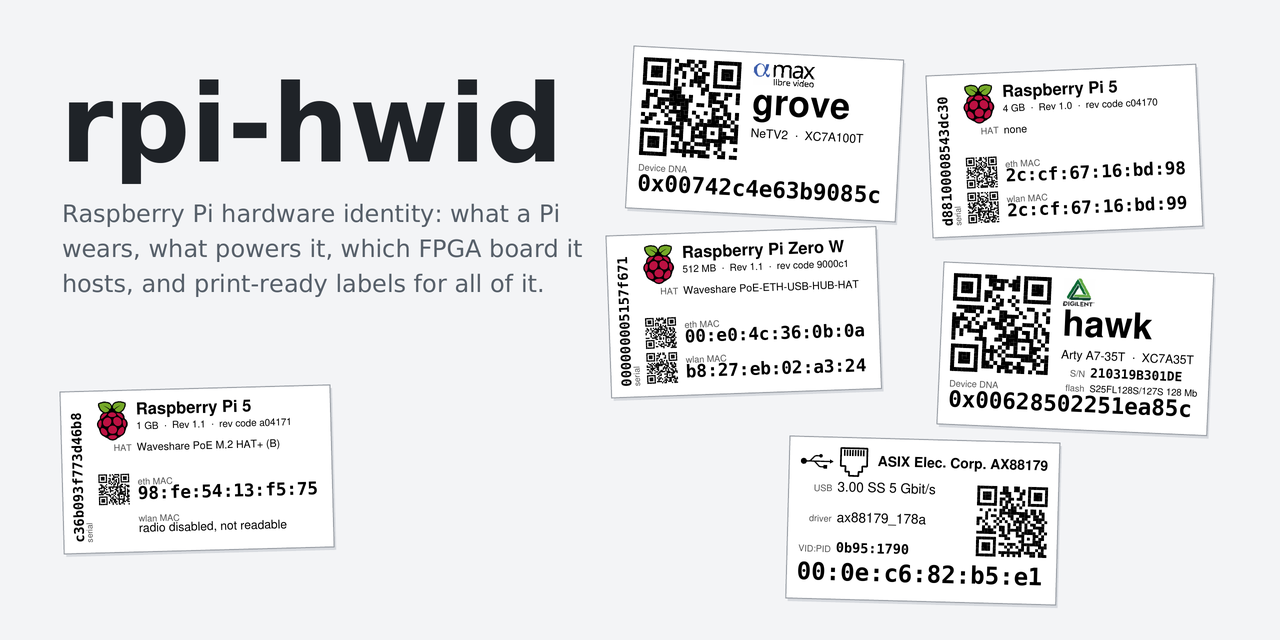
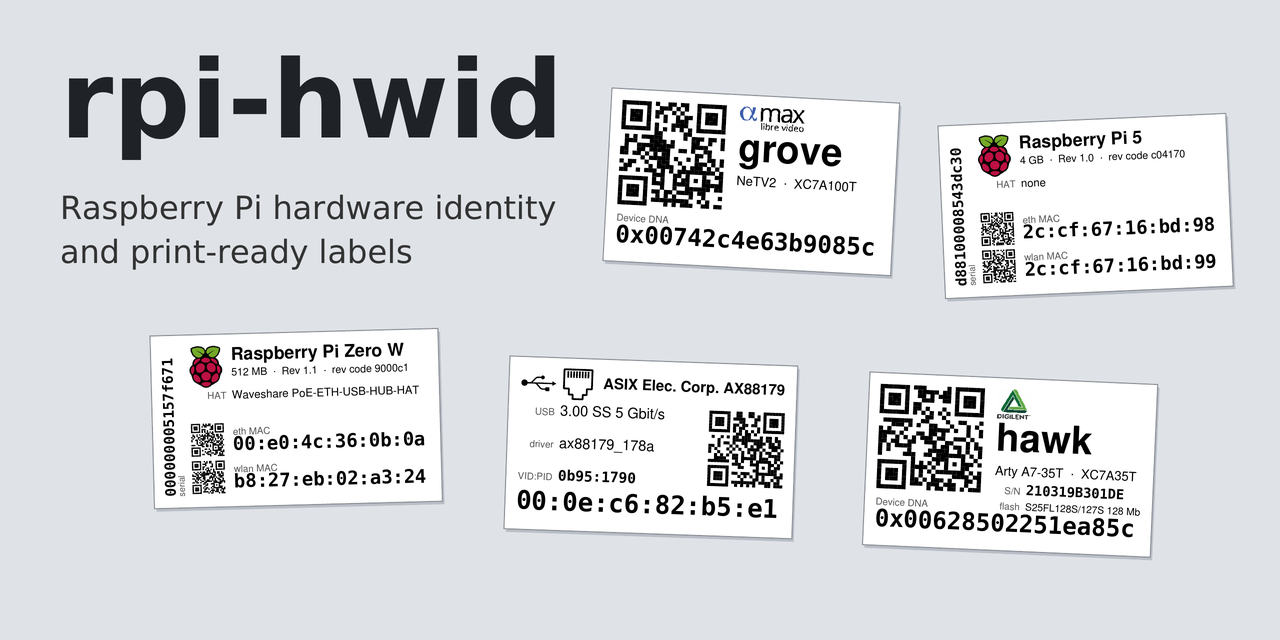
docs: social preview - five larger labels inside the card's crop, bigger pitch
From review. Five labels at 1.6x instead of six at 1.5x, two beside the text and three along the bottom, every rotated corner kept inside x 40..1240, y 70..570 so a link card's 1.91:1 crop loses nothing; the top row's edges are offset 42 px and no two stickers come closer than 28 px. The pitch is two lines at 32 px in near-black, the headline 20 px higher, and the ground darkened to #dfe3e8 so the white labels separate on a white card.

The script now derives the text from one MARGIN, checks the stickers against the safe band and the text against the nearest sticker rather than trusting a wrap width, refuses to run when the DejaVu monospace is missing, demands exactly one fixture per sticker, passes the found (draw, data) pair to draw_sticker, and raises instead of asserting on the raster size.

Claude-Session: https://claude.ai/code/session_017ibyTnuBCnNY7ACKAkdRiT

Changed region(s): [[0.0312, 0.0625, 0.9688, 0.9688], [0.0312, 0.5312, 0.3438, 0.875], [0.3125, 0.5, 0.3438, 0.5312]]

diff --git a/docs/social_preview.py b/docs/social_preview.py
@@ -3,21 +3,24 @@
 
     uv run docs/social_preview.py
 
-Writes docs/social-preview.png, 1280 x 640 px: the repository name, its
-one-line description, and a handful of the labels the package generates,
-drawn from the same fixture documents as docs/examples/render.py so the
-picture tracks the generator. The labels are drawn as vectors straight
-onto the page and the page is rasterised at twice the size and halved, so
-the QR codes and MACs stay crisp.
+Writes docs/social-preview.png, 1280 x 640 px: the repository name, a
+two-line pitch, and five of the labels the package generates, drawn from
+the same fixture documents as docs/examples/render.py so the picture
+tracks the generator. The labels are drawn as vectors straight onto the
+page and the page is rasterised at twice the size and halved, so the QR
+codes and MACs stay crisp.
 
 GitHub has no API for the social preview: upload the file by hand in the
 repository's Settings, under "Social preview". Needs pdftoppm
-(poppler-utils). The headline is set in Bitstream Vera, which reportlab
-ships, so nothing outside the dependency set is used.
+(poppler-utils) and the DejaVu monospace the labels use. The headline is
+set in Bitstream Vera, which reportlab ships, so nothing outside the
+dependency set is used; the PNG is byte-stable for a given set of fonts
+and poppler version.
 """
 
 from __future__ import annotations
 
+import math
 import subprocess
 import sys
 import tempfile
@@ -37,47 +40,59 @@ from rpi_hwid import labels  # noqa: E402
 from rpi_hwid.model import ProbeDocument  # noqa: E402
 
 OUT = HERE / "social-preview.png"
-W, H = 1280, 640          # GitHub's recommended size; shown cropped to 2:1
+# GitHub's recommended size. The page is already 2:1; link cards crop it to
+# about 1.91:1 and show it at half size, so everything that matters stays
+# inside SAFE and the type is large.
+W, H = 1280, 640
 SUPERSAMPLE = 2           # rasterise at 2x and halve
+SAFE = (40, 70, W - 40, H - 70)   # left, top, right, bottom: nothing outside
+MARGIN = 60               # the text's left edge and the headline's top
+GAP = 28                  # least clearance between stickers, and to the text
 
 NAME = "rpi-hwid"
-PITCH = ("Raspberry Pi hardware identity: what a Pi wears, what powers it, "
-         "which FPGA board it hosts, and print-ready labels for all of it.")
+NAME_SIZE = 108
+PITCH = ("Raspberry Pi hardware identity", "and print-ready labels")
+PITCH_SIZE = 32
+PITCH_TOP, PITCH_LEADING = 196, 44
 
-BACKGROUND = HexColor("#f3f4f6")
+BACKGROUND = HexColor("#dfe3e8")
 INK = HexColor("#1f2328")
-MUTED = HexColor("#57606a")
-EDGE = HexColor("#9a9fa6")
-SHADOW = HexColor("#d7dadf")
+PITCH_INK = HexColor("#333333")
+EDGE = HexColor("#8b9096")
+SHADOW = HexColor("#b9bec6")
 
 # (kind, title substring, x, y, degrees): which fixture label goes where, its
-# top-left corner in pixels from the page's top-left, and its tilt.
-SCALE = 1.5               # 63.5 x 38.1 mm label -> 270 x 162 px
+# top-left corner in pixels from the page's top-left, and its tilt. Two on
+# the top row beside the text, three along the bottom.
+SCALE = 1.6               # 63.5 x 38.1 mm label -> 288 x 173 px
 STICKERS = [
-    ("rpi", "Pi 5 1 GB", 60, 392, 1.5),
-    ("netv2", "netv2-grove", 634, 46, -3.0),
-    ("rpi", "Pi 5 4 GB", 926, 76, 2.5),
-    ("rpi", "Zero", 606, 236, 2.0),
-    ("arty", "arty-hawk", 944, 262, -2.5),
-    ("usb", "AX88179", 790, 436, -1.5),
+    ("netv2", "netv2-grove", 612, 88, -3.0),
+    ("rpi", "Pi 5 4 GB", 938, 126, 2.5),
+    ("rpi", "Zero", 150, 336, 1.5),
+    ("usb", "AX88179", 510, 356, -2.0),
+    ("arty", "arty-hawk", 870, 372, -2.5),
 ]
 
 
-def wrap(text, font, size, max_w):
-    lines, line = [], ""
-    for word in text.split():
-        trial = f"{line} {word}".strip()
-        if line and pdfmetrics.stringWidth(trial, font, size) > max_w:
-            lines.append(line)
-            line = word
-        else:
-            line = trial
-    lines.append(line)
-    return lines
+def corners(x, y, angle):
+    """The four page corners of a sticker placed by `draw_sticker`."""
+    w, h = labels.LABEL_W * SCALE, labels.LABEL_H * SCALE
+    a = math.radians(angle)
+    cos, sin = math.cos(a), math.sin(a)
+    # (dx, dy) in the label's own frame, y downwards; the page's y grows
+    # downwards too, so a positive angle tilts the right edge upwards.
+    return [(x + dx * cos + dy * sin, y - dx * sin + dy * cos)
+            for dx, dy in ((0, 0), (w, 0), (w, h), (0, h))]
 
 
-def draw_sticker(c, index, titles, x, y, angle):
-    _kind, _title, draw, data = titles[index]
+def find(titles, kind, needle):
+    hits = [(draw, data) for k, title, draw, data in titles if k == kind and needle in title]
+    if len(hits) != 1:
+        raise SystemExit(f"{len(hits)} fixture labels match {kind} {needle!r}, want one")
+    return hits[0]
+
+
+def draw_sticker(c, draw, data, x, y, angle):
     c.saveState()
     c.translate(x, H - y)
     c.rotate(angle)
@@ -94,12 +109,34 @@ def draw_sticker(c, index, titles, x, y, angle):
     c.restoreState()
 
 
+def check_layout():
+    """Every sticker inside SAFE, and the text clear of the stickers
+    beside it."""
+    text_bottom = PITCH_TOP + PITCH_LEADING * (len(PITCH) - 1) + PITCH_SIZE
+    text_limit = W
+    for _kind, needle, x, y, angle in STICKERS:
+        xs, ys = zip(*corners(x, y, angle), strict=True)
+        if min(xs) < SAFE[0] or min(ys) < SAFE[1] or max(xs) > SAFE[2] or max(ys) > SAFE[3]:
+            raise SystemExit(f"sticker {needle!r} leaves the safe area {SAFE}")
+        if min(ys) < text_bottom:
+            text_limit = min(text_limit, min(xs) - GAP)
+    for line in PITCH:
+        if MARGIN + pdfmetrics.stringWidth(line, "Vera", PITCH_SIZE) > text_limit:
+            raise SystemExit(f"pitch line {line!r} runs into the stickers")
+    if MARGIN + pdfmetrics.stringWidth(NAME, "VeraBd", NAME_SIZE) > text_limit:
+        raise SystemExit("the headline runs into the stickers")
+
+
 def main() -> None:
     pdfmetrics.registerFont(TTFont("VeraBd", "VeraBd.ttf"))
     pdfmetrics.registerFont(TTFont("Vera", "Vera.ttf"))
     labels.register_fonts()
+    if labels.MONO == "Courier-Bold":
+        raise SystemExit("the DejaVu Sans Mono font the labels use is not installed "
+                         "(fonts-dejavu-core); refusing to render with Courier")
     docs = {name: ProbeDocument.from_dict(name, raw) for name, raw in conftest.RAW.items()}
     titles = list(labels.all_labels(docs, {"fpga", "rpi", "usb"}))
+    check_layout()
 
     with tempfile.TemporaryDirectory(dir=HERE) as tmp:
         pdf = Path(tmp) / "social-preview.pdf"
@@ -108,29 +145,27 @@ def main() -> None:
         c.setFillColor(BACKGROUND)
         c.rect(0, 0, W, H, stroke=0, fill=1)
 
-        # The headline, cap-height top 84 px down, 60 px in.
+        # Cap-height tops at MARGIN and PITCH_TOP; 0.72 em is the cap height.
         c.setFillColor(INK)
-        c.setFont("VeraBd", 108)
-        c.drawString(60, H - 84 - 108 * 0.72, NAME)
+        c.setFont("VeraBd", NAME_SIZE)
+        c.drawString(MARGIN, H - MARGIN - NAME_SIZE * 0.72, NAME)
+        c.setFillColor(PITCH_INK)
+        c.setFont("Vera", PITCH_SIZE)
+        for i, line in enumerate(PITCH):
+            c.drawString(MARGIN, H - PITCH_TOP - i * PITCH_LEADING - PITCH_SIZE * 0.72, line)
 
-        c.setFillColor(MUTED)
-        c.setFont("Vera", 24)
-        y = H - 222
-        for line in wrap(PITCH, "Vera", 24, 540):
-            c.drawString(62, y, line)
-            y -= 35
-
-        for kind, needle, x, ly, angle in STICKERS:
-            index = next(i for i, (k, t, _d, _r) in enumerate(titles)
-                         if k == kind and needle in t)
-            draw_sticker(c, index, titles, x, ly, angle)
+        for kind, needle, x, y, angle in STICKERS:
+            draw, data = find(titles, kind, needle)
+            draw_sticker(c, draw, data, x, y, angle)
         c.showPage()
         c.save()
 
         subprocess.run(["pdftoppm", "-r", str(72 * SUPERSAMPLE), "-png", "-singlefile",
                         str(pdf), str(Path(tmp) / "page")], check=True)
         page = Image.open(Path(tmp) / "page.png").convert("RGB")
-        assert page.size == (W * SUPERSAMPLE, H * SUPERSAMPLE), page.size
+        if page.size != (W * SUPERSAMPLE, H * SUPERSAMPLE):
+            raise SystemExit(f"pdftoppm rendered {page.size}, not {W * SUPERSAMPLE} x "
+                             f"{H * SUPERSAMPLE}")
         page.resize((W, H), Image.LANCZOS).save(OUT, optimize=True)
     print(OUT, f"{W}x{H}")
 
